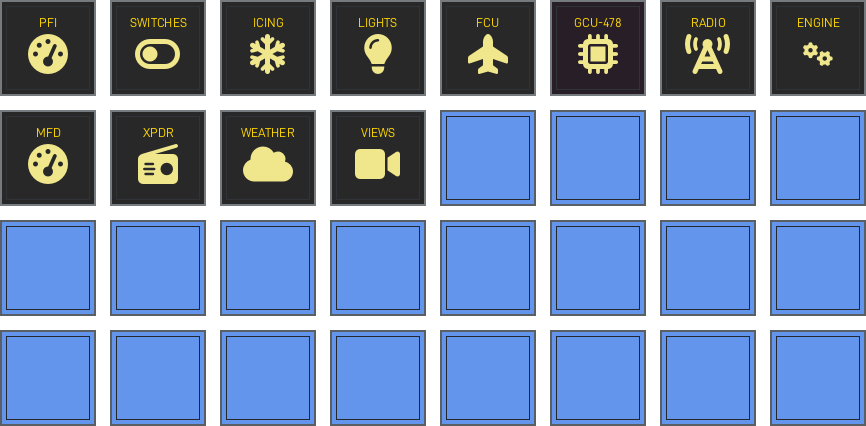
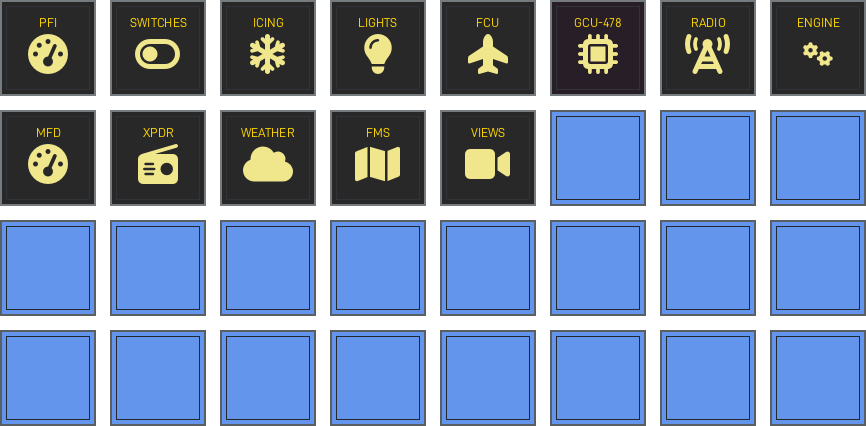
Updated decks documentation

Changed region(s): [[0.4988, 0.2441, 0.6236, 0.4883], [0.4053, 0.3052, 0.4677, 0.4272]]

diff --git a/docs/decks/cirrus-sr22/index.md b/docs/decks/cirrus-sr22/index.md
@@ -79,7 +79,7 @@ Decks for Cirrus SR22
 
 ### Stream Deck XL
 
-<div class="layout-meta">🔧 <strong>Active Development</strong>&emsp;📄 14 pages&emsp;🎮 Stream Deck XL</div>
+<div class="layout-meta">🔧 <strong>Active Development</strong>&emsp;📄 15 pages&emsp;🎮 Stream Deck XL</div>
 
 <div class="page-gallery">
 <div class="page-card">
@@ -141,6 +141,11 @@ Decks for Cirrus SR22
 <img src="../../assets/images/cirrus-sr22/generated/streamdeckxl1/weather.page.png" alt="Weather preview" loading="lazy">
 <div class="page-name">Weather</div>
 <div class="page-config"><a href="https://github.com/dlicudi/cockpitdecks-configs/blob/main/decks/cirrus-sr22/deckconfig/streamdeckxl1/weather.yaml">weather.yaml</a></div>
+</div>
+<div class="page-card">
+<img src="../../assets/images/cirrus-sr22/generated/streamdeckxl1/fms.page.png" alt="Fms preview" loading="lazy">
+<div class="page-name">Fms</div>
+<div class="page-config"><a href="https://github.com/dlicudi/cockpitdecks-configs/blob/main/decks/cirrus-sr22/deckconfig/streamdeckxl1/fms.yaml">fms.yaml</a></div>
 </div>
 <div class="page-card">
 <img src="../../assets/images/cirrus-sr22/generated/streamdeckxl1/views.page.png" alt="Views preview" loading="lazy">
